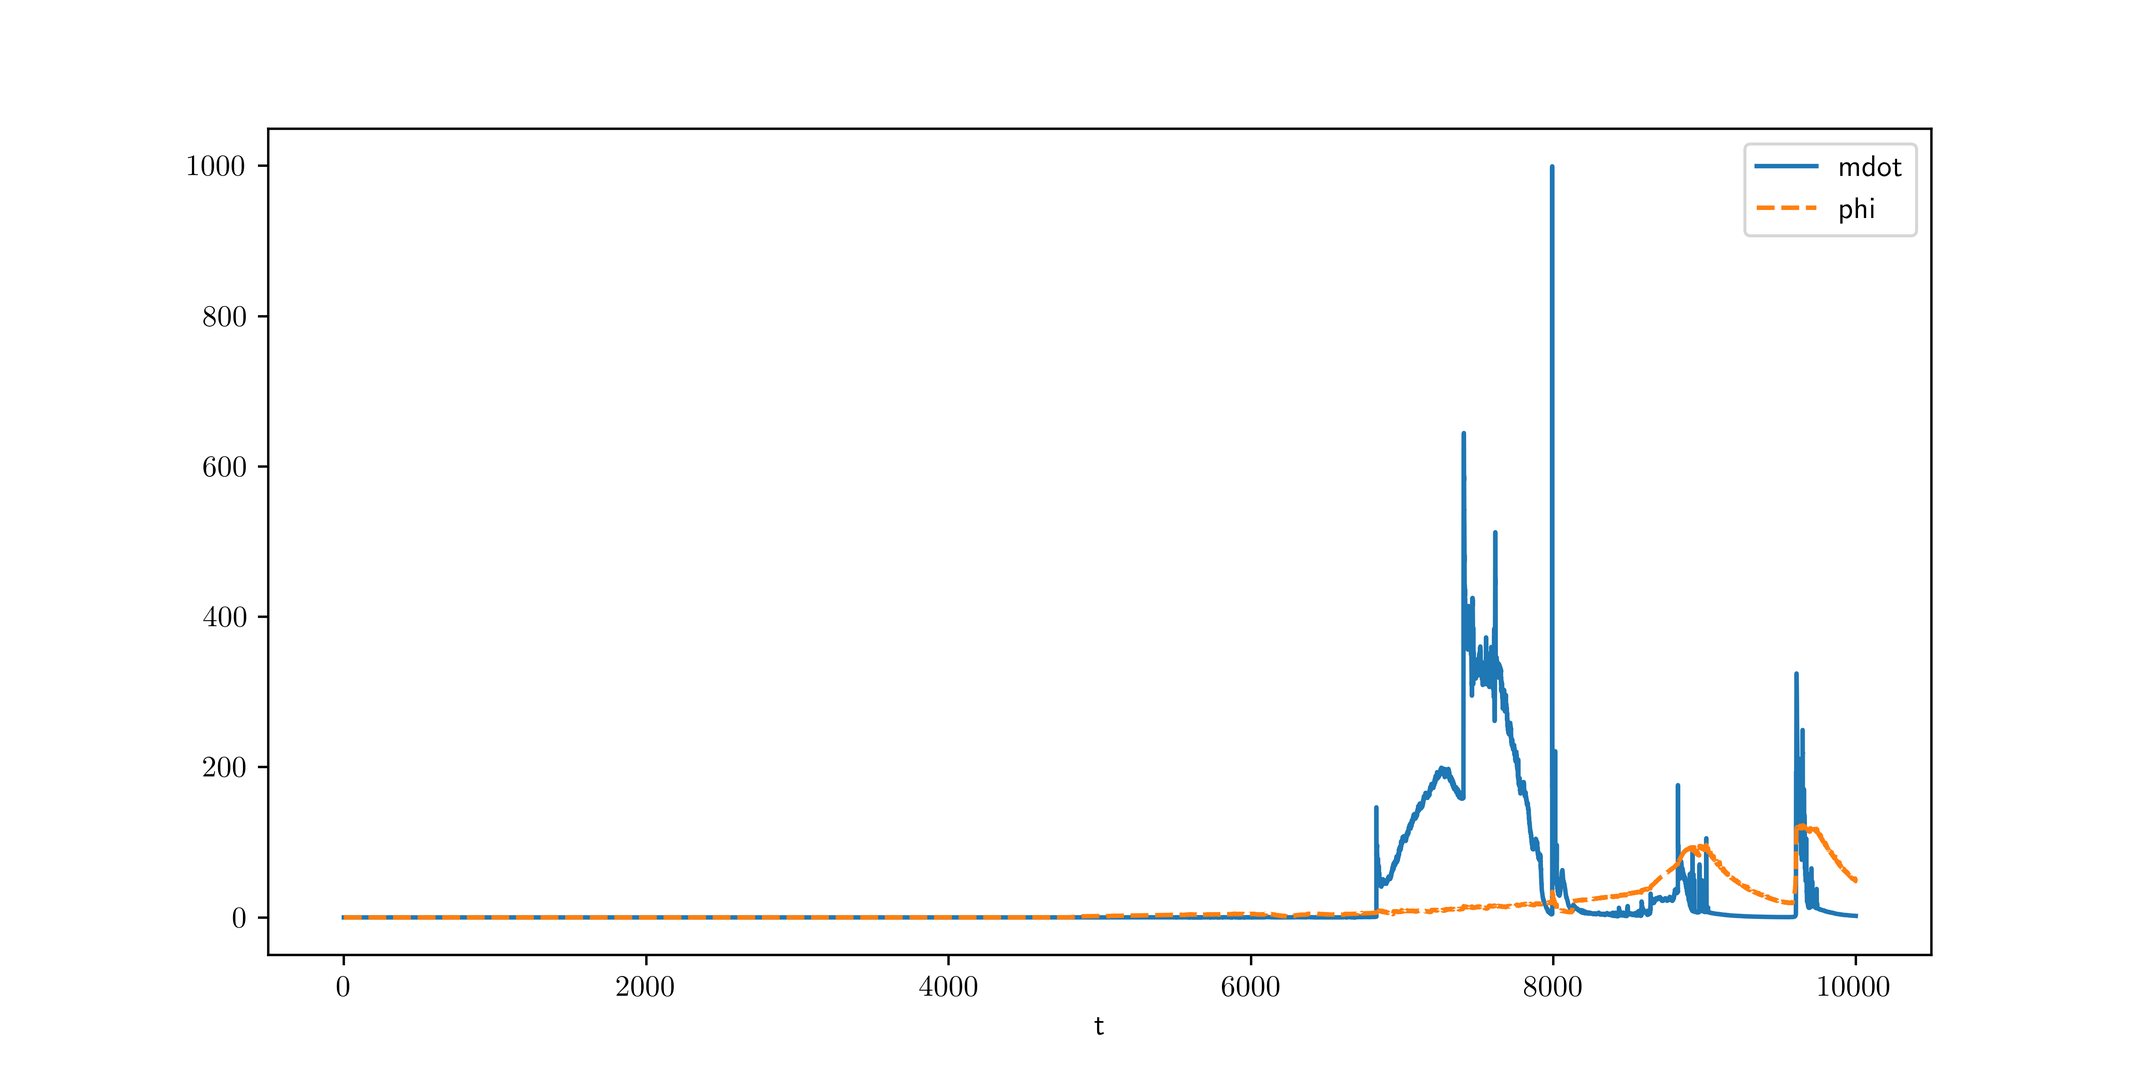
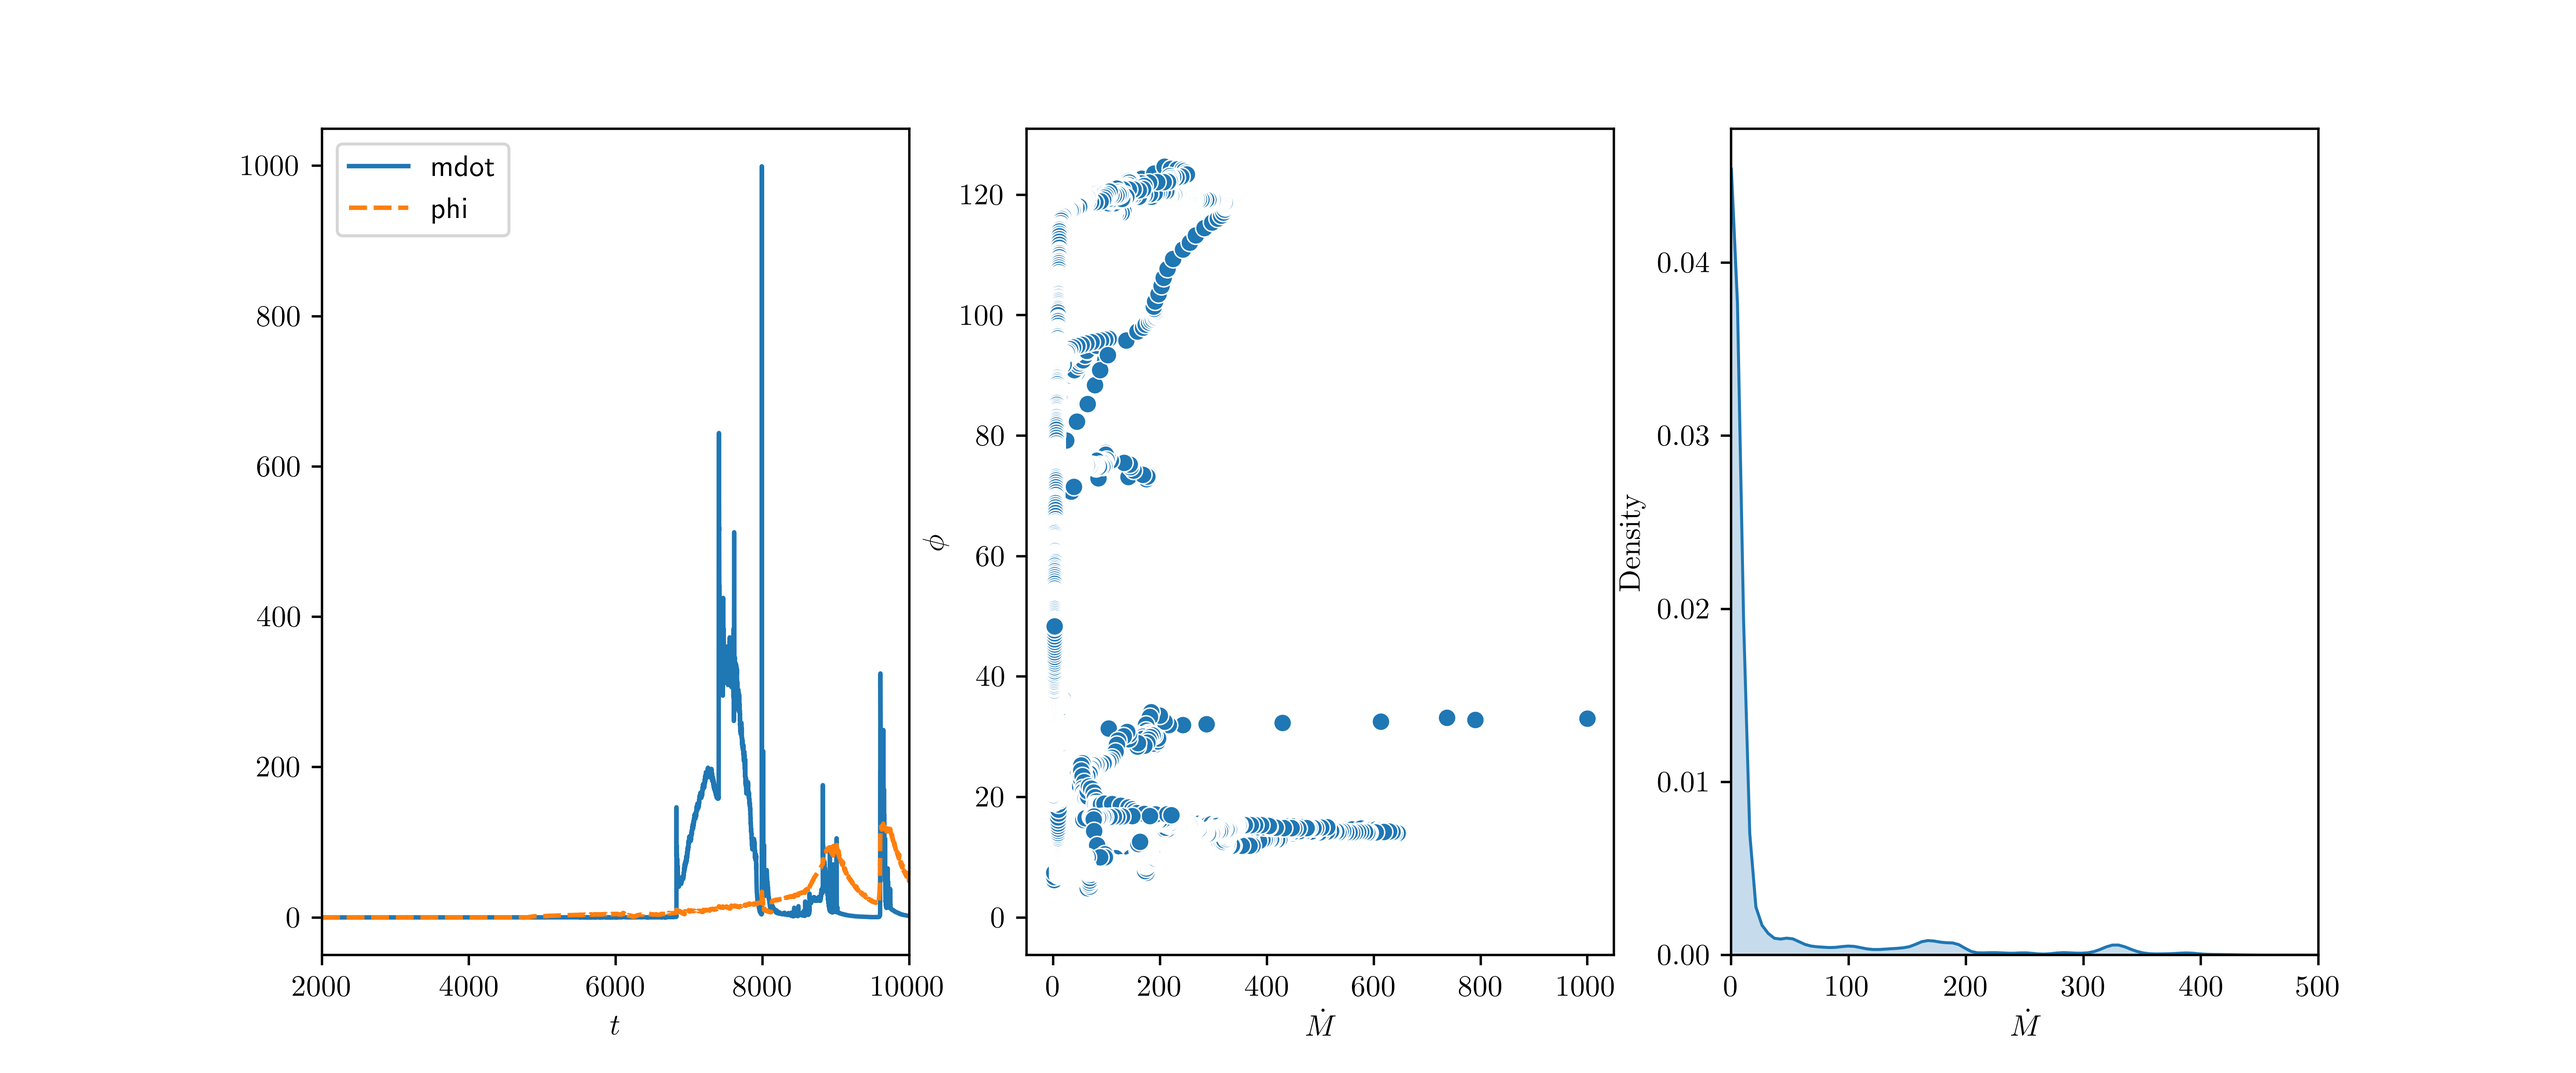
Better ploting

diff --git a/output_12body_6-6_test/Data_ploting.py b/output_12body_6-6_test/Data_ploting.py
@@ -6,10 +6,23 @@ rc('text.latex', preamble=r'\usepackage{amsmath}')
 
 print('Hello')
 
-def making_plot(data_file):
+def making_plot(data_file, x_axis=True, y_axis=True):
 
-    fig, (ax1)=plt.subplots(1,1, figsize=(10,5))
-    sns.lineplot(ax=ax1, data=data_file)
+    fig, ((ax11, ax12, ax13))=plt.subplots(1,3, sharex=False, figsize=(12,5))
+    sns.lineplot(ax=ax11, data=data_file)
+    ax11.set_xlabel(r'$t$')
+    #ax11.set_yscale('log')
+    ax11.set_xlim(2000,10000)
+    #ax11.set_ylim()
+
+    sns.scatterplot(ax=ax12, x=x_axis, y=y_axis)
+    ax12.set_xlabel(r'$\dot{M}$')
+    ax12.set_ylabel(r'$\phi$')
+
+    sns.kdeplot(ax=ax13, x=x_axis, fill=True)
+    ax13.set_xlabel(r'$\dot{M}$')
+    ax13.set_ylabel(r'$\rm Density$')
+    ax13.set_xlim(0,500)
 
     plt.savefig(f'plot.png', dpi=500)
     print('Plot is ready')

diff --git a/output_12body_6-6_test/First_data_analysis.py b/output_12body_6-6_test/First_data_analysis.py
@@ -17,4 +17,4 @@ for i in col_zeros:
 # =================== Ploting ===================
 
 #Data_ploting.making_plot(data['mdot'])
-Data_ploting.making_plot(data.iloc[:,0:2])
+Data_ploting.making_plot(data.iloc[:,0:2], data['mdot'], data['phi'])
